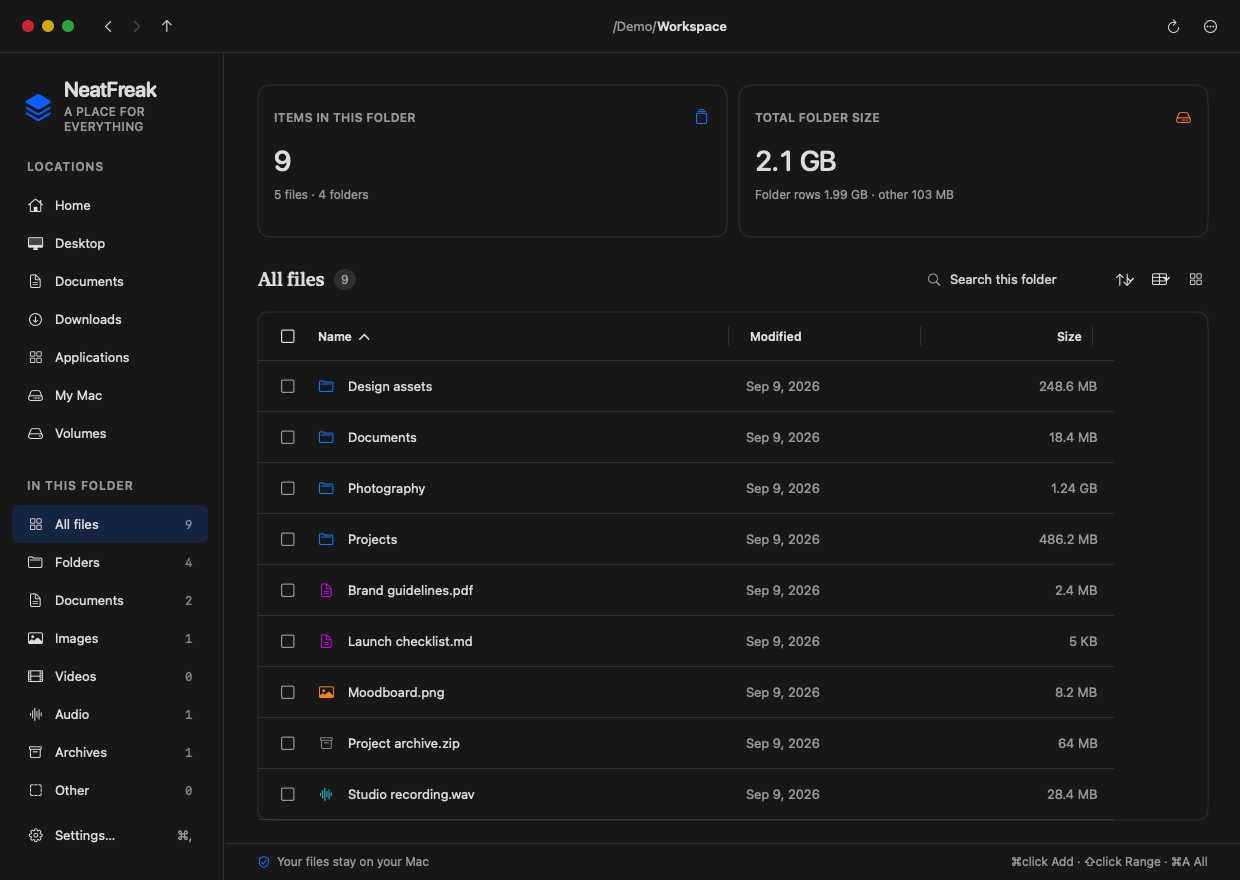
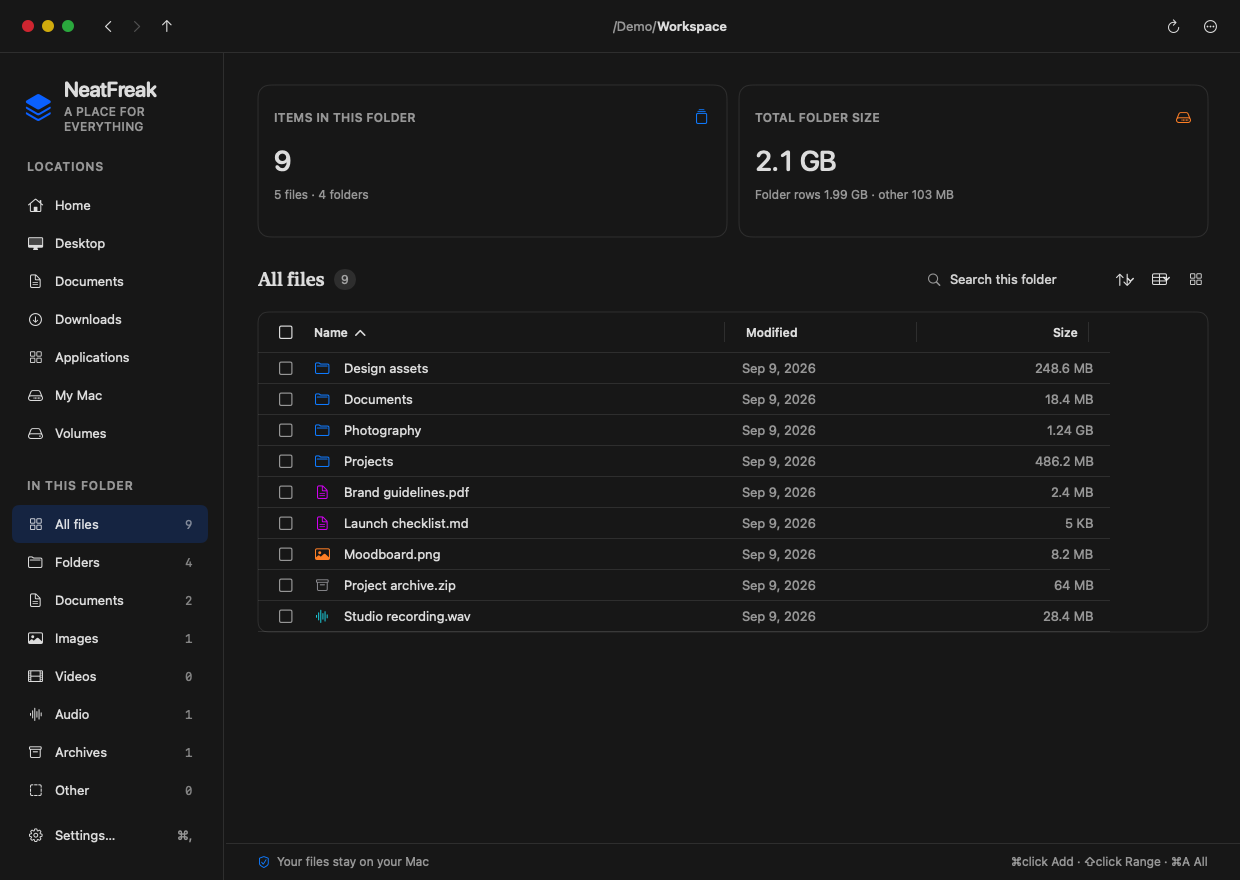
Update NeatFreak to 0.2.0
Adds drag and drop in both directions and denser file list rows.
Release assets are published at v0.2.0; the cask checksum matches the
universal archive.

diff --git a/Casks/neatfreak.rb b/Casks/neatfreak.rb
@@ -1,6 +1,6 @@
 cask "neatfreak" do
-  version "0.1.0"
[1 lines of base64/hex data omitted]
+  version "0.2.0"
[1 lines of base64/hex data omitted]
 
   url "https://github.com/sean-lab/homebrew-neatfreak/releases/download/v#{version}/NeatFreak-#{version}-universal.zip"
   name "NeatFreak"

diff --git a/README.md b/README.md
@@ -6,7 +6,7 @@
   <p>
     <img src="https://img.shields.io/badge/macOS-14%2B-1677FF?style=flat-square" alt="macOS 14 and later">
     <img src="https://img.shields.io/badge/Apple%20Silicon%20%2B%20Intel-Universal-454545?style=flat-square" alt="Universal app for Apple Silicon and Intel">
-    <img src="https://img.shields.io/badge/release-0.1.0%20preview-805AD5?style=flat-square" alt="0.1.0 preview">
+    <img src="https://img.shields.io/badge/release-0.2.0%20preview-805AD5?style=flat-square" alt="0.2.0 preview">
   </p>
   <p><a href="#install">Install</a> · <a href="#made-for-your-workflow">Features</a> · <a href="https://github.com/sean-lab/homebrew-neatfreak/releases">Releases</a> · <a href="README.ko.md">한국어</a></p>
 </div>
@@ -23,7 +23,7 @@
 
 | Explore | Understand | Take action |
 | :--- | :--- | :--- |
-| Move between folders with history, parent navigation, and an editable path. | Calculate folder sizes, including files inside subfolders. | Select a range or several files and copy, move, or trash them together. |
+| Move between folders with history, parent navigation, and an editable path. | Calculate folder sizes, including files inside subfolders. | Select a range or several files and copy, move, or trash them together. Drag files out to other apps, or drop files in to copy them. |
 | Sort by column headers and adjust columns and side panels. | Reuse cached size results while navigating and react to filesystem changes. | Preview supported files in the right panel and choose an app with **Open With**. |
 
 **Comfortable on your Mac.** Light, dark, or system appearance. English, 한국어, 日本語, and 简体中文. Native keyboard shortcuts and macOS file-type icons.
@@ -40,7 +40,7 @@ Requires **macOS 14 Sonoma or later**. One universal app supports **Apple Silico
 
 Prefer a manual download? Get the ZIP from [Releases](https://github.com/sean-lab/homebrew-neatfreak/releases), extract it, and move `NeatFreak.app` to Applications.
 
-> **Preview release:** 0.1.0 is ad-hoc signed and not notarized by Apple. macOS may require approval in **System Settings → Privacy & Security** before opening it. This cask does not bypass Gatekeeper or change security settings.
+> **Preview release:** 0.2.0 is ad-hoc signed and not notarized by Apple. macOS may require approval in **System Settings → Privacy & Security** before opening it. This cask does not bypass Gatekeeper or change security settings.
 
 Already installed manually? Quit NeatFreak and move the existing app out of `/Applications` before installing with Homebrew. Your documents are unaffected.
 

diff --git a/README.ko.md b/README.ko.md
@@ -3,7 +3,7 @@
   <h1>NeatFreak</h1>
   <p><strong>파일은 제자리에. 작업은 더 편안하게.</strong></p>
   <p>폴더를 자유롭게 탐색하고, 용량을 파악하고, 파일을 바로 미리 보세요.<br>Mac을 위한 네이티브 파일 유틸리티.</p>
-  <p>macOS 14 이상 · Apple Silicon & Intel · 0.1.0 Preview</p>
+  <p>macOS 14 이상 · Apple Silicon & Intel · 0.2.0 Preview</p>
   <p><a href="#설치">설치</a> · <a href="https://github.com/sean-lab/homebrew-neatfreak/releases">다운로드</a> · <a href="README.md">English</a></p>
 </div>
 
@@ -19,7 +19,7 @@
 
 | 탐색 | 용량 확인 | 파일 작업 |
 | :--- | :--- | :--- |
-| 이전·다음·상위 폴더 이동과 경로 직접 입력 | 하위 폴더 내부까지 포함하는 용량 계산 | 여러 파일을 선택해 복사·이동·휴지통 처리 |
+| 이전·다음·상위 폴더 이동과 경로 직접 입력 | 하위 폴더 내부까지 포함하는 용량 계산 | 여러 파일을 선택해 복사·이동·휴지통 처리, 다른 앱과의 드래그 앤 드롭 |
 | 컬럼 헤더 정렬, 컬럼·양쪽 패널 너비 조절 | 탐색 중 캐시 재사용과 파일 시스템 변경 반영 | 오른쪽 패널 미리보기와 **Open With** |
 
 **익숙한 Mac 환경.** 라이트·다크·시스템 테마, macOS 단축키, 파일 종류별 아이콘을 제공합니다. 한국어·영어·일본어·중국어 간체를 지원합니다.
@@ -36,7 +36,7 @@ brew install --cask sean-lab/neatfreak/neatfreak
 
 직접 설치하려면 [Releases](https://github.com/sean-lab/homebrew-neatfreak/releases)에서 ZIP을 내려받아 압축을 풀고 `NeatFreak.app`을 응용 프로그램 폴더로 옮기세요.
 
-> **테스트 버전 안내:** 0.1.0은 임시 서명된 앱으로 Apple 공증을 받지 않았습니다. 최초 실행 시 **시스템 설정 → 개인정보 보호 및 보안**에서 승인이 필요할 수 있습니다. 설치 과정에서 Gatekeeper를 우회하거나 보안 설정을 변경하지 않습니다.
+> **테스트 버전 안내:** 0.2.0은 임시 서명된 앱으로 Apple 공증을 받지 않았습니다. 최초 실행 시 **시스템 설정 → 개인정보 보호 및 보안**에서 승인이 필요할 수 있습니다. 설치 과정에서 Gatekeeper를 우회하거나 보안 설정을 변경하지 않습니다.
 
 이미 수동 설치했다면 앱을 종료하고 기존 앱을 `/Applications` 밖으로 옮긴 뒤 Homebrew로 설치하세요. 문서 파일에는 영향을 주지 않습니다.
 
